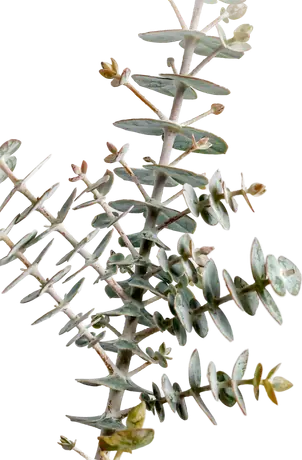
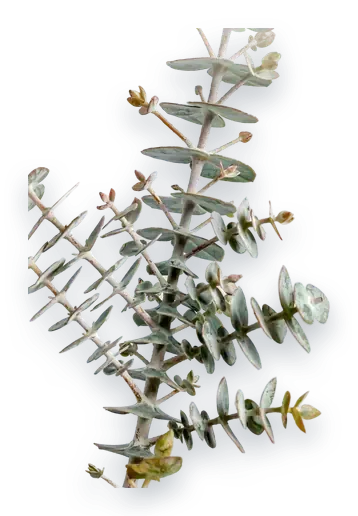
Performance pass: remove per-frame filters and heavy compositing
- Flower shadows baked into the images; no drop-shadow/brightness filters
  on the ~40 animated flowers (and the breathing animation removed)
- Flowers still off-screen pause their sway
- Light orbs without mix-blend-mode; fewer of them
- Decor blobs use radial gradients instead of 64px blur filters
- Parallax elements looked up once; rects read before writes
- Canvas overlay: DPR capped at 1.5, ~half the particles, no shadowBlur,
  ~30fps on phones and low-core devices
- Title shimmer plays once on reveal / on hover instead of forever
Scroll test, 4x CPU throttle: 35fps -> 54fps, dropped frames 36 -> 12.

diff --git a/src/components/site/MagicOverlay.tsx b/src/components/site/MagicOverlay.tsx
@@ -178,7 +178,7 @@ export function MagicOverlay() {
     const finePointer = window.matchMedia('(hover: hover) and (pointer: fine)').matches;
     const pointer = { x: -9999, y: -9999, active: false, lastX: -9999, lastY: -9999 };
     const glitter: Glitter[] = [];
-    const MAX_GLITTER = 420;
+    const MAX_GLITTER = window.innerWidth < 640 ? 140 : 260;
 
     function spawnPetal(x: number, y: number, vx: number, vy: number) {
       if (glitter.length >= MAX_GLITTER) return;
@@ -249,7 +249,7 @@ export function MagicOverlay() {
       const dx = pointer.x - pointer.lastX;
       const dy = pointer.y - pointer.lastY;
       if (dx * dx + dy * dy > 140) {
-        spawnGlitter(pointer.x, pointer.y, 2, 30);
+        spawnGlitter(pointer.x, pointer.y, 1, 30);
         pointer.lastX = pointer.x;
         pointer.lastY = pointer.y;
       }
@@ -273,7 +273,7 @@ export function MagicOverlay() {
       width = window.innerWidth;
       height = window.innerHeight;
       // Cap the pixel ratio: past 2x the extra pixels cost more than they show.
-      const ratio = Math.min(window.devicePixelRatio || 1, 2);
+      const ratio = Math.min(window.devicePixelRatio || 1, 1.5);
       canvas.width = Math.floor(width * ratio);
       canvas.height = Math.floor(height * ratio);
       canvas.style.width = `${width}px`;
@@ -281,22 +281,30 @@ export function MagicOverlay() {
       ctx.setTransform(ratio, 0, 0, ratio, 0, 0);
 
       // Fewer on a phone, where there is less room and less battery to spare.
-      const count = width < 640 ? 7 : width < 1024 ? 11 : 15;
+      const count = width < 640 ? 4 : width < 1024 ? 6 : 9;
       if (butterflies.length !== count) {
         butterflies = Array.from({ length: count }, () => makeButterfly(width, height, false));
       }
 
-      const dustCount = width < 640 ? 45 : width < 1024 ? 75 : 110;
+      const dustCount = width < 640 ? 18 : width < 1024 ? 35 : 55;
       if (dust.length !== dustCount) {
         dust = Array.from({ length: dustCount }, () => makeDust(width, height, false));
       }
     }
 
+    // Phones and low-core devices draw at ~30fps: the drift is slow enough
+    // that it looks the same, and it frees the main thread for scrolling.
+    const lowPower = window.innerWidth < 768 || (navigator.hardwareConcurrency || 8) <= 4;
+
     function draw(now: number) {
       if (!ctx) return;
+      if (lowPower && now - last < 30) {
+        frame = requestAnimationFrame(draw);
+        return;
+      }
       // Seconds since the last frame, clamped so a backgrounded tab does not
       // teleport everything across the screen when it wakes up.
-      const delta = Math.min((now - last) / 1000, 0.05);
+      const delta = Math.min((now - last) / 1000, 0.066);
       last = now;
 
       ctx.clearRect(0, 0, width, height);
@@ -418,14 +426,11 @@ export function MagicOverlay() {
           ctx.scale(1, 0.35 + Math.abs(Math.sin(g.flutter!)) * 0.65);
           ctx.globalAlpha = Math.min(1, t * 3) * 0.92;
           ctx.fillStyle = g.color;
-          ctx.shadowColor = 'rgba(44,62,80,0.18)';
-          ctx.shadowBlur = 3;
           ctx.beginPath();
           ctx.moveTo(0, g.size * 1.4);
           ctx.bezierCurveTo(-g.size * 1.2, g.size * 0.5, -g.size, -g.size, 0, -g.size * 1.5);
           ctx.bezierCurveTo(g.size, -g.size, g.size * 1.2, g.size * 0.5, 0, g.size * 1.4);
           ctx.fill();
-          ctx.shadowBlur = 0;
           ctx.globalAlpha *= 0.5;
           ctx.fillStyle = '#FFFFFF';
           ctx.beginPath();
@@ -444,8 +449,6 @@ export function MagicOverlay() {
         ctx.rotate(g.spin);
         ctx.globalAlpha = Math.min(1, t * 1.6) * 0.9;
         ctx.fillStyle = g.color;
-        ctx.shadowColor = g.color;
-        ctx.shadowBlur = 6;
         drawSparkle(ctx, g.size * (0.6 + t * 0.4));
         ctx.restore();
       }
@@ -468,8 +471,6 @@ export function MagicOverlay() {
         ctx.rotate(companion.angle);
         ctx.globalAlpha = 0.85;
         ctx.fillStyle = '#5E7D9A';
-        ctx.shadowColor = 'rgba(255,255,255,0.9)';
-        ctx.shadowBlur = 8;
         ctx.save();
         ctx.scale(spread, 1);
         drawWings(ctx, 13);

diff --git a/src/app/globals.css b/src/app/globals.css
@@ -147,7 +147,6 @@ select:focus-visible,
 
 /* Scroll parallax (see ScrollEffects.tsx). */
 [data-parallax] {
-  transform: translate3d(0, var(--parallax-y, 0px), 0);
   will-change: transform;
 }
 
@@ -255,6 +254,11 @@ select:focus-visible,
   animation: flora-sway 6s ease-in-out infinite alternate;
   will-change: rotate;
 }
+/* Flowers still off-screen don't animate at all. */
+.flora-bloom[data-off] .flora-sway {
+  animation-play-state: paused;
+  will-change: auto;
+}
 @keyframes flora-sway {
   from { rotate: calc(var(--amp, 3deg) * -1); }
   to { rotate: var(--amp, 3deg); }
@@ -265,8 +269,7 @@ select:focus-visible,
   height: 100%;
   object-fit: contain;
   user-select: none;
-  animation: flora-breathe 4.5s ease-in-out infinite alternate;
-  filter: drop-shadow(0 6px 10px rgba(44, 62, 80, 0.22));
+  /* Shadows are baked into the images, so nothing here re-rasterises. */
 }
 @keyframes flora-breathe {
   from { scale: 0.97; }
@@ -298,8 +301,7 @@ select:focus-visible,
   height: 100%;
   transform-origin: 50% 60%;
   transform: scale(calc(1 + var(--near, 0) * 0.16)) rotate(calc(var(--near, 0) * 6deg));
-  filter: brightness(calc(1 + var(--near, 0) * 0.14)) saturate(calc(1 + var(--near, 0) * 0.25));
-  transition: transform 0.5s cubic-bezier(0.2, 0.8, 0.2, 1.2), filter 0.5s ease;
+  transition: transform 0.5s cubic-bezier(0.2, 0.8, 0.2, 1.2);
 }
 
 /* Soft drifting light orbs over the page. */
@@ -307,8 +309,8 @@ select:focus-visible,
   position: absolute;
   border-radius: 9999px;
   background: radial-gradient(circle, rgba(255, 255, 255, 0.9) 0%, rgba(220, 231, 240, 0.35) 40%, transparent 70%);
-  mix-blend-mode: screen;
   opacity: 0;
+  will-change: transform, opacity;
   animation: orb-drift var(--dur, 26s) ease-in-out infinite;
   animation-delay: var(--delay, 0s);
 }
@@ -328,12 +330,19 @@ select:focus-visible,
   -webkit-background-clip: text;
   background-clip: text;
   color: transparent;
-  animation: title-shimmer 7s ease-in-out infinite;
   padding: 0 0.12em;
 }
+[data-reveal].opacity-100 .title-shimmer {
+  animation: title-shimmer 2.6s ease-in-out 0.5s 1 both;
+}
+@media (hover: hover) {
+  .title-shimmer:hover {
+    animation: title-shimmer 1.6s ease-in-out 1 both;
+  }
+}
 @keyframes title-shimmer {
-  0%, 55% { background-position: 100% 0; }
-  100% { background-position: 0% 0; }
+  from { background-position: 100% 0; }
+  to { background-position: 0% 0; }
 }
 
 /* ---------------------------------------------------------------------------
@@ -378,8 +387,7 @@ html.intro-seen .floral-intro {
   width: 100%;
   height: 100%;
   object-fit: contain;
-  filter: drop-shadow(0 10px 18px rgba(44, 62, 80, 0.25));
-  animation: flora-breathe 3.6s ease-in-out infinite alternate;
+  will-change: transform;
 }
 @keyframes intro-bloom {
   from { transform: translate(-50%, -50%) rotate(calc(var(--rot) - 60deg)) scale(0); opacity: 0; }

diff --git a/src/components/site/Florals.tsx b/src/components/site/Florals.tsx
@@ -169,6 +169,10 @@ export function Florals() {
       for (const b of blooms) {
         const v = Math.max(0, Math.min(1, (p - b.t) / ENTER_SPAN));
         if (Math.abs(v - b.v) > 0.01) {
+          if ((v === 0) !== (b.v === 0) || b.v < 0) {
+            if (v === 0) b.el.setAttribute('data-off', '');
+            else b.el.removeAttribute('data-off');
+          }
           b.v = v;
           b.el.style.setProperty('--enter', v.toFixed(3));
         }
@@ -309,7 +313,7 @@ function Column({ side, items }: { side: 'l' | 'r'; items: Item[] }) {
         >
           <div className="flora-lean" style={{ '--k': it.lean } as React.CSSProperties}>
             <div className="flora-near">
-              <div className="flora-bloom" data-t={it.delay}>
+              <div className="flora-bloom" data-t={it.delay} data-off="">
                 <div
                   className="flora-sway"
                   style={
@@ -323,12 +327,11 @@ function Column({ side, items }: { side: 'l' | 'r'; items: Item[] }) {
                 >
                   {/* eslint-disable-next-line @next/next/no-img-element */}
                   <img
-                    src={`/florals/${it.src}.webp`}
+                    src={`/florals/${it.src}.webp?v=2`}
                     alt=""
                     draggable={false}
                     decoding="async"
                     className="flora-img"
-                    style={{ animationDelay: `${-(i % 5)}s` }}
                   />
                 </div>
               </div>

diff --git a/src/components/site/ScrollEffects.tsx b/src/components/site/ScrollEffects.tsx
@@ -13,6 +13,13 @@ export function ScrollEffects() {
 
   useEffect(() => {
     const reduced = window.matchMedia('(prefers-reduced-motion: reduce)').matches;
+    const layers = reduced
+      ? []
+      : Array.from(document.querySelectorAll<HTMLElement>('[data-parallax]')).map((el) => ({
+          el,
+          speed: Number(el.dataset.parallax) || 0.2,
+          box: el.parentElement ?? el,
+        }));
     let frame = 0;
 
     function update() {
@@ -24,13 +31,14 @@ export function ScrollEffects() {
       if (reduced) return;
 
       const vh = window.innerHeight;
-      document.querySelectorAll<HTMLElement>('[data-parallax]').forEach((el) => {
-        const speed = Number(el.dataset.parallax) || 0.2;
-        const rect = el.parentElement?.getBoundingClientRect() ?? el.getBoundingClientRect();
+      // Read every rect first, then write, so the browser lays out once.
+      const rects = layers.map((l) => l.box.getBoundingClientRect());
+      layers.forEach((l, i) => {
+        const rect = rects[i];
         if (rect.bottom < -200 || rect.top > vh + 200) return;
         // 0 when the section's centre is at the viewport's centre.
         const offset = rect.top + rect.height / 2 - vh / 2;
-        el.style.setProperty('--parallax-y', `${(-offset * speed).toFixed(1)}px`);
+        l.el.style.transform = `translate3d(0, ${(-offset * l.speed).toFixed(1)}px, 0)`;
       });
     }
 

diff --git a/src/components/site/Decor.tsx b/src/components/site/Decor.tsx
@@ -4,12 +4,20 @@
  * needs `relative isolate overflow-hidden`.
  */
 export function Decor({ tone = 'light' }: { tone?: 'light' | 'mist' }) {
-  const a = tone === 'mist' ? 'bg-white/60' : 'bg-mist/80';
-  const b = tone === 'mist' ? 'bg-dusty/25' : 'bg-dusty/20';
+  const a = tone === 'mist' ? 'rgba(255,255,255,0.7)' : 'rgba(220,231,240,0.9)';
+  const b = tone === 'mist' ? 'rgba(138,164,187,0.28)' : 'rgba(138,164,187,0.22)';
   return (
     <div aria-hidden className="pointer-events-none absolute inset-0 -z-10">
-      <div data-parallax="0.25" className={`absolute -left-24 top-10 h-72 w-72 rounded-full blur-3xl ${a}`} />
-      <div data-parallax="-0.2" className={`absolute -right-20 bottom-0 h-80 w-80 rounded-full blur-3xl ${b}`} />
+      <div
+        data-parallax="0.25"
+        className="absolute -left-32 top-0 h-96 w-96"
+        style={{ background: `radial-gradient(circle, ${a} 0%, transparent 65%)` }}
+      />
+      <div
+        data-parallax="-0.2"
+        className="absolute -right-28 -bottom-10 h-[26rem] w-[26rem]"
+        style={{ background: `radial-gradient(circle, ${b} 0%, transparent 65%)` }}
+      />
     </div>
   );
 }

diff --git a/src/components/site/LightOrbs.tsx b/src/components/site/LightOrbs.tsx
@@ -1,13 +1,10 @@
 /** Soft glowing orbs that drift up the page like dust in sunlight. CSS only. */
 const ORBS = [
   { x: 12, y: 70, s: 90, dur: 28, delay: 0, dx: 60, dy: -160, peak: 0.45 },
-  { x: 28, y: 30, s: 60, dur: 24, delay: 5, dx: -40, dy: -120, peak: 0.35 },
   { x: 46, y: 85, s: 120, dur: 32, delay: 9, dx: 80, dy: -200, peak: 0.3 },
   { x: 62, y: 20, s: 70, dur: 26, delay: 3, dx: -60, dy: -100, peak: 0.4 },
   { x: 78, y: 60, s: 100, dur: 30, delay: 12, dx: 50, dy: -180, peak: 0.35 },
   { x: 90, y: 35, s: 55, dur: 22, delay: 7, dx: -30, dy: -140, peak: 0.45 },
-  { x: 36, y: 55, s: 45, dur: 20, delay: 15, dx: 40, dy: -90, peak: 0.5 },
-  { x: 70, y: 90, s: 80, dur: 27, delay: 18, dx: -70, dy: -220, peak: 0.3 },
 ];
 
 export function LightOrbs() {

diff --git a/src/app/layout.tsx b/src/app/layout.tsx
@@ -27,7 +27,7 @@ export default function RootLayout({ children }: { children: React.ReactNode }) 
     <html lang="en" className={fonts} suppressHydrationWarning>
       <head>
         <link rel="preconnect" href="https://lxzzcx7ubyxrkqsz.public.blob.vercel-storage.com" crossOrigin="" />
-        <link rel="preload" as="image" href="/florals/hydrangea1.webp" />
+        <link rel="preload" as="image" href="/florals/hydrangea1.webp?v=2" />
         <script
           dangerouslySetInnerHTML={{
             __html:

diff --git a/src/components/site/FloralIntro.tsx b/src/components/site/FloralIntro.tsx
@@ -198,7 +198,7 @@ export function FloralIntro({ coupleNames }: { coupleNames: string }) {
             }
           >
             {/* eslint-disable-next-line @next/next/no-img-element */}
-            <img src={`/florals/${p.src}.webp`} alt="" draggable={false} fetchPriority={i < 12 ? 'high' : 'auto'} />
+            <img src={`/florals/${p.src}.webp?v=2`} alt="" draggable={false} fetchPriority={i < 12 ? 'high' : 'auto'} />
           </div>
         ))}
       </div>
